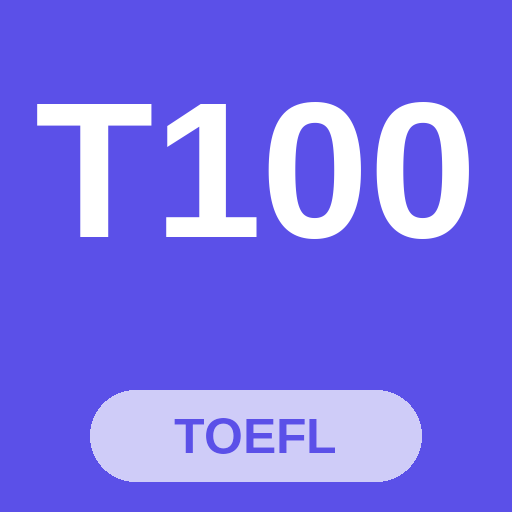
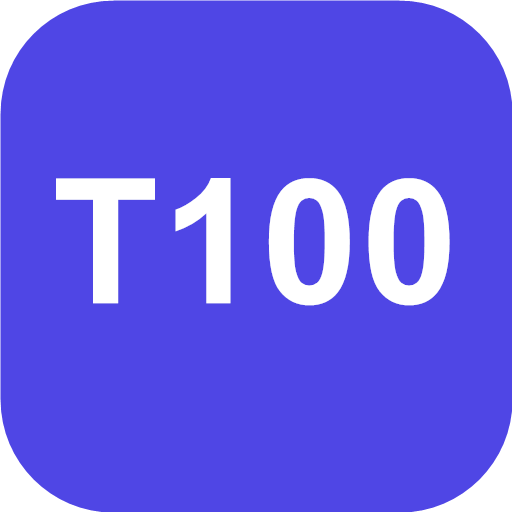
feat: bump target score 96 -> 100 across UI and assets
- Update title, manifest name, header, default goal to TOEFL 100
- Regenerate all 5 PWA icons with T100 badge (favicon uses single 'T')
- Score breakdown: R28/L25/S23/W26=102 (+2 safety margin)
- Bump SW APP_VERSION to v1.1.0 to invalidate stale icon cache
- Keep internal storage keys (toefl96_*) to preserve user data

diff --git a/index.html b/index.html
@@ -594,7 +594,7 @@ python -m http.server 8000
       </div>
       <div>
         <label class="block text-sm font-medium mb-1.5">Target score</label>
-        <input id="setting-goal-score" type="number" min="60" max="120" value="96" class="px-3 py-2 rounded-md border border-slate-300 dark:border-slate-600 dark:bg-slate-800 text-sm w-28">
+        <input id="setting-goal-score" type="number" min="60" max="120" value="100" class="px-3 py-2 rounded-md border border-slate-300 dark:border-slate-600 dark:bg-slate-800 text-sm w-28">
       </div>
       <div>
         <label class="block text-sm font-medium mb-1.5">Daily new-card limit</label>
@@ -638,7 +638,7 @@ const STORAGE_KEY = 'toefl96_v1';
 const defaultState = () => ({
   user: {
     startDate: new Date().toISOString().slice(0,10),
-    goalScore: 96,
+    goalScore: 100,
     dailyNewLimit: 20,
     dailyGoalMin: 90,
     darkMode: false

diff --git a/sw.js b/sw.js
@@ -1,4 +1,4 @@
-/* TOEFL 96 Trainer — Service Worker
+/* TOEFL 100 Trainer — Service Worker
    Strategy:
    - App shell (HTML/manifest/icons): cache-first with background update
    - Tailwind CDN & Google Fonts: cache-first (stale-while-revalidate)
@@ -6,7 +6,7 @@
    - Everything else: network-first with cache fallback
 */
 
-const APP_VERSION = 'v1.0.0';
+const APP_VERSION = 'v1.1.0';
 const APP_CACHE = `toefl96-shell-${APP_VERSION}`;
 const RUNTIME_CACHE = `toefl96-runtime-${APP_VERSION}`;
 

diff --git a/CLAUDE.md b/CLAUDE.md
@@ -6,9 +6,9 @@
 
 ## 프로젝트 개요
 
-- **이름:** TOEFL 96 Trainer
-- **목적:** 사용자 본인(전병탁, Principal Engineer · AI PM)이 **TOEFL iBT 96점**을 받아 **서울대 AI 대학원 박사**에 진학하기 위한 6개월(26주) 셀프 트레이닝 PWA
-- **목표 점수 영역 분배:** Reading 27 / Listening 24 / Speaking 22 / Writing 25 = 98 (안전 마진 +2)
+- **이름:** TOEFL 100 Trainer
+- **목적:** 사용자 본인(전병탁, Principal Engineer · AI PM)이 **TOEFL iBT 100점**을 받아 **서울대 AI 대학원 박사**에 진학하기 위한 6개월(26주) 셀프 트레이닝 PWA
+- **목표 점수 영역 분배:** Reading 28 / Listening 25 / Speaking 23 / Writing 26 = 102 (안전 마진 +2)
 - **사용자 출발점:** 독해 강점, 듣기·말하기 약함, 직장 병행
 - **언어:** UI는 영문 라벨 위주, 한국어 보조 / 코드/주석은 영문
 
@@ -74,7 +74,7 @@ toefl-trainer/
 # 현재 폴더가 toefl-trainer/ 라고 가정
 git init
 git add .
-git commit -m "Initial commit: TOEFL 96 Trainer PWA"
+git commit -m "Initial commit: TOEFL 100 Trainer PWA"
 git branch -M main
 git remote add origin https://github.com/btjeon/toefl-trainer.git
 git push -u origin main
@@ -121,10 +121,11 @@ git push -u origin main
 - ADsP 자격, 6 Sigma Black Belt
 - 코드 리뷰는 엔지니어링 관점에서 가능 — 짧고 정확한 설명 선호
 - 한국어로 답변, 코드는 영문 주석
-- TOEFL 96점이 첫 목표. SNU AI 대학원 박사 진학이 최종 목표
+- TOEFL 100점이 첫 목표. SNU AI 대학원 박사 진학이 최종 목표
 
 ---
 
 ## 변경 이력
 
-- **2026-05-25**: 초기 버전 작성. Phase 0~4 (26주) 계획 + PWA + 자동 배포 + 오프라인 + 모바일 보강 완료
+- **2026-05-25**: 초기 버전 작성. Phase 0~4 (26주) 계획 + PWA + 자동 배포 + 오프라인 + 모바일 보강 완료. 목표 점수 96점.
+- **2026-05-25**: 목표 점수 96 → 100 상향. 모든 표시 텍스트·아이콘·점수 분배(R28/L25/S23/W26=102) 갱신. 내부 storage 키(`toefl96_*`)와 SW 캐시 prefix는 데이터 보존 위해 유지.

diff --git a/README.md b/README.md
@@ -1,6 +1,6 @@
-# TOEFL 96 Trainer
+# TOEFL 100 Trainer
 
-> 서울대 AI 대학원 박사 진학을 위한 6개월 토플 96점 도전 트레이너.
+> 서울대 AI 대학원 박사 진학을 위한 6개월 토플 100점 도전 트레이너.
 > 단일 페이지 PWA. 오프라인 동작. 데이터는 모두 기기 로컬에만 저장됨.
 
 **Live demo:** `https://btjeon.github.io/toefl-trainer/`
@@ -42,7 +42,7 @@ cd "C:\Users\gogot\OneDrive\문서\Claude\Projects\영어공부\toefl-trainer"
 
 git init
 git add .
-git commit -m "Initial commit: TOEFL 96 Trainer"
+git commit -m "Initial commit: TOEFL 100 Trainer"
 git branch -M main
 git remote add origin https://github.com/btjeon/toefl-trainer.git
 git push -u origin main
